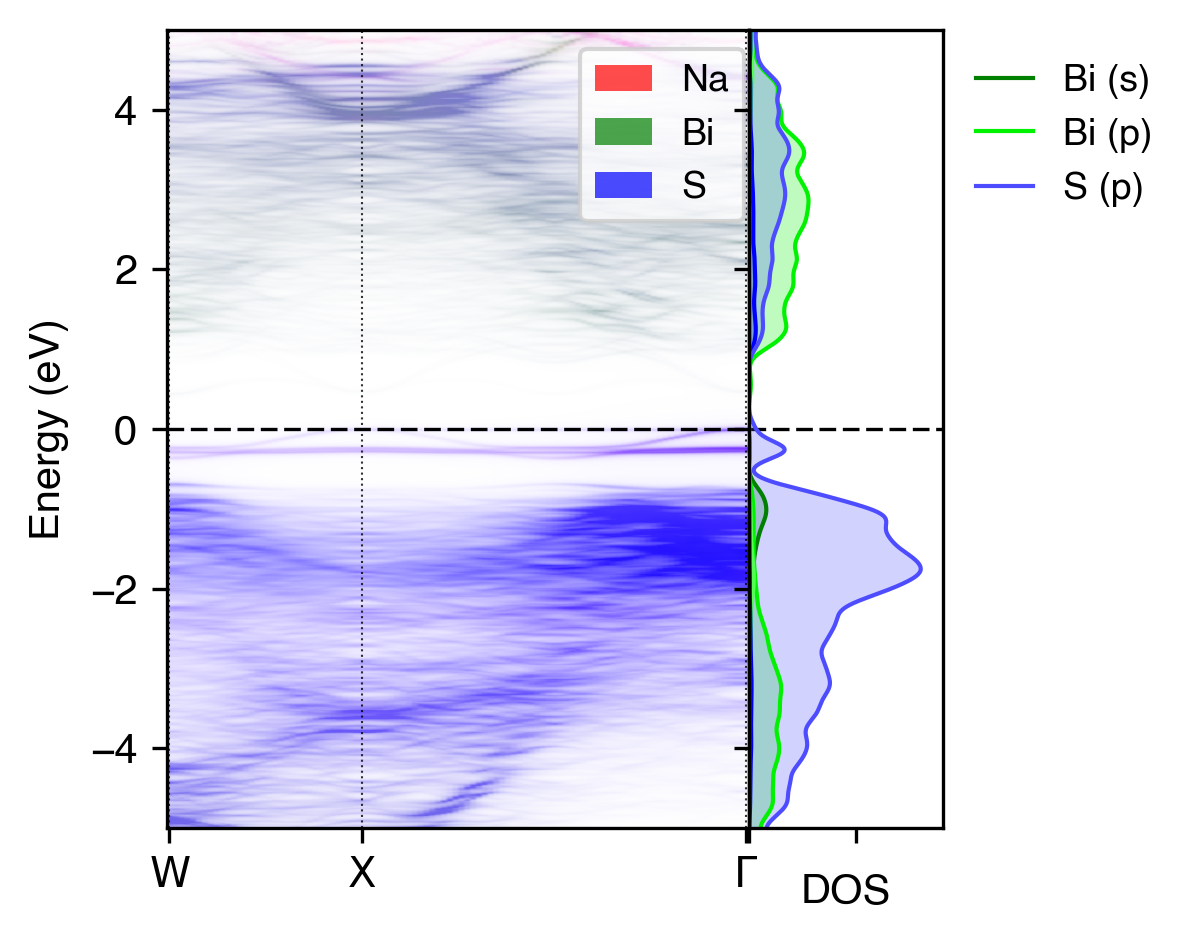
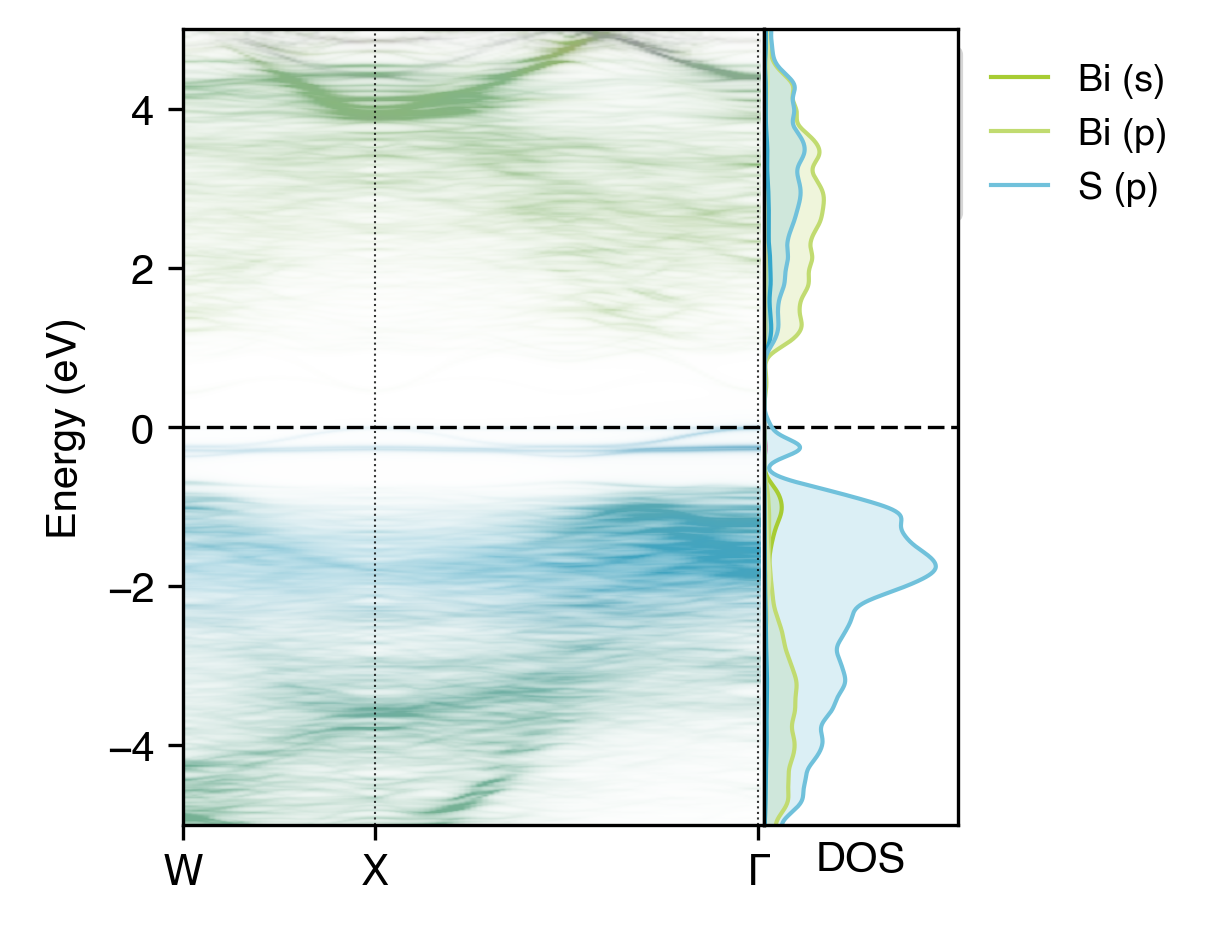
Update NaBiS2 projection plots

Changed region(s): [[0.0, 0.0302, 0.9582, 0.9676]]

diff --git a/docs/examples/example_nabis2.md b/docs/examples/example_nabis2.md
@@ -88,7 +88,7 @@ When plotting the unfolded band, the `plot-projections` subcommand is used with 
 `--atoms` options:
 
 ```bash
-easyunfold unfold plot-projections --atoms="Na,Bi,S" --intensity 2 --combined
+easyunfold unfold plot-projections --atoms="Na,Bi,S" --intensity 3 --combined
 ```
 
 ```{figure} ../../examples/NaBiS2/NaBiS2_unfold-plot_proj.png
@@ -132,7 +132,7 @@ Unfolded band structure of NaBiS<sub>2</sub> with atomic contributions plotted s
 
 An alternative option here is also to just plot only the contributions of `Na` and `Bi` cations, with no S projections:
 ```bash
-easyunfold unfold plot-projections --atoms="Na,Bi" --intensity 2 --combined
+easyunfold unfold plot-projections --atoms="Na,Bi" --intensity 3 --combined
 ```
 
 ```{figure} ../../examples/NaBiS2/NaBiS2_unfold-plot_proj_noS.png
@@ -149,7 +149,7 @@ While this plot isn't the most aesthetic, it clearly shows that Bi (green) contr
 ### Atom-projected Unfolded Band Structure with DOS
 We can also combine the atom projections with the DOS plotting, using the `--dos` option as before:
 ```bash
-easyunfold unfold plot-projections --atoms "Na,Bi,S" --intensity 2 --combined --dos vasprun.xml.gz --zero-line \
+easyunfold unfold plot-projections --atoms "Na,Bi,S" --intensity 3 --combined --dos vasprun.xml.gz --zero-line \
   --dos-label "DOS" --gaussian 0.1 --no-total --scale 2
 ```
 
@@ -199,7 +199,7 @@ For example, if we want to see the contributions of the Bi $s$, $p$ and S $s$ or
 we can use the following command:
 
 ```bash
-easyunfold unfold plot-projections --atoms "Bi,Bi,S" --orbitals="s|p|s"  --intensity 2  --combined \
+easyunfold unfold plot-projections --atoms "Bi,Bi,S" --orbitals="s|p|s"  --intensity 3  --combined \
   --dos vasprun.xml.gz --zero-line --dos-label "DOS" --gaussian 0.1 --no-total --scale 5
 ```
 
@@ -222,7 +222,7 @@ see the contributions of the Bi and S $p_x$, $p_y$ and $p_z$ orbitals to the unf
 following command:
 
 ```bash
-easyunfold unfold plot-projections --atoms "Na,Bi,S" --orbitals="all|px,py,pz|px,py,pz" --intensity 2 --combined \
+easyunfold unfold plot-projections --atoms "Na,Bi,S" --orbitals="all|px,py,pz|px,py,pz" --intensity 3 --combined \
   --dos vasprun.xml.gz --zero-line --dos-label "DOS" --gaussian 0.1 --no-total --scale 6
 ```
 
@@ -238,6 +238,10 @@ structure, due to the cubic symmetry of the NaBiS<sub>2</sub> crystal structure.
 for the $d$ orbitals of transition metals in octahedral/tetrahedral environments, we would expect to see significant 
 differences in the contributions of different $lm$-decomposed orbitals to the electronic structure.
 
+:::{tip}
+There are _many_ customisation options available for the plotting functions in `easyunfold`. See `easyunfold plot -h` or 
+`easyunfold unfold plot-projections -h` for more details!
+:::
 
 [^1]: [Huang, YT., Kavanagh, S.R., Righetto, M. et al. Strong absorption and ultrafast localisation in NaBiS2 nanocrystals with slow charge-carrier recombination. Nat Commun 13, 4960 (2022)](https://www.nature.com/articles/s41467-022-32669-3) 
 [^2]: [Wang, Y., Kavanagh, S.R., Burgués-Ceballos, I. et al. Cation disorder engineering yields AgBiS2 nanocrystals with enhanced optical absorption for efficient ultrathin solar cells. Nat. Photon. 16, 235–241 (2022).](https://www.nature.com/articles/s41566-021-00950-4)

diff --git a/docs/examples/example_si211_castep.md b/docs/examples/example_si211_castep.md
@@ -144,3 +144,8 @@ Supercell band structure of Si in a 2x1x1 supercell
 which, as expected, is the same as the primitive cell if it is folded back along the midpoint between 
 $\Gamma$ and $X$, corresponding to the 2x expansion of the primitive cell along the $x$ direction in 
 generating the 2x1x1 supercell. 
+
+:::{tip}
+There are _many_ customisation options available for the plotting functions in `easyunfold`. See `easyunfold plot -h` or 
+`easyunfold unfold plot-projections -h` for more details!
+:::

diff --git a/docs/examples/example_mgo.md b/docs/examples/example_mgo.md
@@ -103,3 +103,8 @@ easyunfold unfold plot-projections --procar MgO_super/PROCAR --atoms="Mg,O" --em
 
 Unfolded MgO band structure with atomic projections plotted separately.
 ```
+
+:::{tip}
+There are _many_ customisation options available for the plotting functions in `easyunfold`. See `easyunfold plot -h` or 
+`easyunfold unfold plot-projections -h` for more details!
+:::

diff --git a/docs/examples/example_si222.md b/docs/examples/example_si222.md
@@ -131,7 +131,6 @@ customising and prettifying the unfolded band structure plot. Here we have also 
 option to increase the spectral function intensity.
 :::
 
-
 Note the appearance of extra branches compared to the band structure of the primitive cell (below), due 
 to symmetry breaking from the displaced atom.
 
